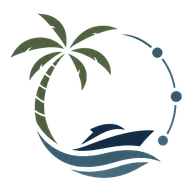
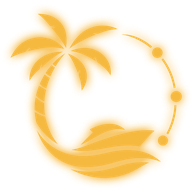
Add files via upload

diff --git a/index.html b/index.html
@@ -1023,7 +1023,7 @@ window.xuatCloseTab=xuatCloseTab;
 
 // ── App Update Checker: so sánh APP_BUILD nhúng trong file, tránh dùng etag/last-modified
 // (etag/last-modified dao động giữa các edge node CDN → báo cập nhật nhầm dù file không đổi)
-window.APP_BUILD='v3.04';
+window.APP_BUILD='v3.06';
 (function(){
   var _remoteBuild=null;
   function _parseBuild(txt){
@@ -4191,7 +4191,15 @@ function doAddSvcByKey(key){
     if(existingKeys.indexOf(key)>=0){
       let i=2; let addKey=key+'_'+i;
       while(existingKeys.indexOf(addKey)>=0){i++;addKey=key+'_'+i;}
-      s=Object.assign({},base,{key:addKey,custom:true});
+      // QUAN TRỌNG: gán CODE RIÊNG cho bản sao (thêm số thứ tự vào code gốc, VD "CNN"->"CNN2"),
+      // KHÔNG copy y hệt code của dịch vụ gốc. Nếu để trùng code, chỉ cần người dùng chạm/gõ lại vào
+      // ô Code của dòng này (dù không đổi giá trị) là switchSvcCodeByCode() sẽ tìm thấy dịch vụ GỐC
+      // có cùng code và HOÁN ĐỔI (switchSvcCode) — khiến 2 dòng bị lẫn/đổi dữ liệu cho nhau. Đặt code
+      // riêng biệt ngay từ đầu loại bỏ hoàn toàn khả năng trùng khớp gây hoán đổi nhầm.
+      const baseCode=(base.code||base.key||'').toUpperCase();
+      let newCode=(baseCode+i).slice(0,10);
+      while(SVCS.some(function(x){return (x.code||x.key||'').toUpperCase()===newCode;})){i++;newCode=(baseCode+i).slice(0,10);}
+      s=Object.assign({},base,{key:addKey,code:newCode,custom:true});
       SVCS.push(s);
     } else {
       s=base;
@@ -5001,14 +5009,14 @@ async function saveDetailSvc(){
   // FIX: các dịch vụ ĐÃ XÓA (có trong dữ liệu cũ nhưng không còn trong grid) phải bị xóa hẳn,
   // không để merge:true của Firestore tự khôi phục. Dùng FieldValue.delete() cho từng key đã bỏ.
   const removedKeys=Object.keys(existing).filter(function(k){return !(k in svcs);});
-  // Guard lớp 2: nếu Fill giá đang khóa, chặn lưu khi tập hợp dịch vụ "on" bị thay đổi (bật/tắt/
-  // thêm/xóa) — dù các nút bấm riêng lẻ (toggleSvc/removeSvc/addCustomSvcDetail) đã chặn từ trước,
-  // guard này đảm bảo an toàn tuyệt đối kể cả khi saveDetailSvc được gọi bằng cách khác.
+  // Guard lớp 2: nếu Fill giá đang khóa, CHỈ chặn khi có KEY MỚI HOÀN TOÀN xuất hiện (dịch vụ chưa
+  // từng tồn tại trong lô này trước đó) — vì đây là thao tác DUY NHẤT sinh ra dòng mới chưa có giá ở
+  // Fill giá. Bật/tắt/sửa/xóa các dịch vụ ĐÃ CÓ SẴN (dù đang on hay off từ trước) vẫn hoạt động bình
+  // thường — không bị chặn — đúng theo yêu cầu "tab Service vẫn hoạt động bình thường khi Fill giá khóa".
   if(r.priceLocked){
-    const onKeysBefore=Object.keys(existing).filter(function(k){return existing[k]&&existing[k].on;}).sort().join(',');
-    const onKeysAfter=Object.keys(svcs).filter(function(k){return svcs[k]&&svcs[k].on;}).sort().join(',');
-    if(onKeysBefore!==onKeysAfter||removedKeys.length){
-      toast('Fill giá đang khóa — không thể bật/tắt/thêm/xóa dịch vụ. Unlock ở tab Fill giá trước.','error');
+    const newKeys=Object.keys(svcs).filter(function(k){return !(k in existing);});
+    if(newKeys.length){
+      toast('Fill giá đang khóa — không thể tạo thêm dịch vụ mới. Unlock ở tab Fill giá trước.','error');
       return;
     }
   }
@@ -6767,15 +6775,14 @@ function svcRowHTML(s, sv){
   const svcStatus=sv.svcStatus||'';
   const cost=sv.cost||'';
   const r0=cache[detailTt]&&cache[detailTt].find(x=>x._id===detailId)||{};
-  // Khóa dòng dịch vụ khi 1 trong 2 điều kiện đúng:
-  // 1) Đã thanh toán NCC (apPaidStatus='paid') VÀ đang tick Finish — bỏ tick Finish để mở khóa lại.
-  // 2) Fill giá đang khóa TOÀN LÔ (r0.priceLocked=true) — lúc này MỌI dòng dịch vụ đều khóa cứng
-  //    (kể cả bật/tắt/thêm/xóa), vì thay đổi này sẽ ảnh hưởng tới tập hợp dòng hiển thị ở tab Fill
-  //    giá dù tab đó đang khóa. Mở khóa ở TAB FILL GIÁ (không phải Finish) để sửa lại được.
+  // Khóa dòng dịch vụ khi: đã thanh toán NCC (apPaidStatus='paid') VÀ đang tick Finish — bỏ tick
+  // Finish để mở khóa lại. Fill giá khóa (r0.priceLocked) KHÔNG còn khóa việc sửa cost/toggle/xóa ở
+  // đây nữa — tab Service vẫn hoạt động bình thường khi Fill giá khóa, CHỈ chặn riêng việc TẠO MỚI
+  // dịch vụ (xem addCustomSvcDetail/doAddSvcByKey) để không phát sinh dòng mới, chưa có giá ở Fill giá.
   const paidLocked=sv.apPaidStatus==='paid'&&!!sv.finish;
-  const priceLockedFlag=!!r0.priceLocked;
-  const locked=paidLocked||priceLockedFlag;
-  const lockTip=priceLockedFlag?'Fill giá đang khóa — Unlock ở tab Fill giá để chỉnh sửa':'Đã thanh toán — bỏ tick Finish để chỉnh sửa';
+  const priceLockedFlag=false; // giữ biến để không phải sửa lại các chỗ dùng lockTip bên dưới
+  const locked=paidLocked;
+  const lockTip='Đã thanh toán — bỏ tick Finish để chỉnh sửa';
   const lockedDis=locked?'disabled':'';
   const defaultVol=parseInt(r0.vol)||1;
   const qty=sv.svcQty||defaultVol;
@@ -8094,14 +8101,13 @@ function addCustomSvc(){
   const tg=g('tg_'+key);if(tg){tg.classList.add('on');tg.classList.remove('off');}
 }
 
-// Kiểm tra dịch vụ có đang bị khóa không — gồm 2 loại độc lập:
-// 1) Khóa TỪNG DÒNG: đã thanh toán NCC (apPaidStatus='paid') + đang tick Finish
-// 2) Khóa TOÀN LÔ: Fill giá đang khóa (r.priceLocked=true) — khi đó KHÔNG được bật/tắt/thêm/xóa
-//    BẤT KỲ dịch vụ nào, vì việc này sẽ làm thay đổi tập hợp dòng hiển thị ở tab Fill giá dù đang khóa.
-// Trả về: null (không khóa) hoặc {reason:'row'|'price', msg:'...'} để nơi gọi hiện đúng thông báo.
+// Kiểm tra dịch vụ có đang bị khóa TỪNG DÒNG không: đã thanh toán NCC (apPaidStatus='paid') VÀ
+// đang tick Finish. Fill giá khóa (r.priceLocked) KHÔNG khóa bật/tắt/xóa ở đây nữa — tab Service vẫn
+// hoạt động bình thường; chỉ riêng việc TẠO MỚI dịch vụ mới bị chặn khi Fill giá khóa (xem
+// addCustomSvcDetail/doAddSvcByKey), vì đó là thao tác duy nhất sinh ra dòng MỚI chưa có giá ở Fill giá.
+// Trả về: null (không khóa) hoặc {reason:'row', msg:'...'} để nơi gọi hiện đúng thông báo.
 function _svcRowLocked(key){
   const r=cache[detailTt]&&cache[detailTt].find(function(x){return x._id===detailId;});
-  if(r&&r.priceLocked)return {reason:'price',msg:'Fill giá đang khóa — Unlock ở tab Fill giá trước khi bật/tắt/xóa dịch vụ'};
   const sv=r&&r.svcs&&r.svcs[key];
   if(sv&&sv.apPaidStatus==='paid'&&sv.finish)return {reason:'row',msg:'Dịch vụ đã thanh toán — bỏ tick Finish trước khi chỉnh sửa'};
   return null;
@@ -13172,7 +13178,8 @@ body{font-family:'Inter',-apple-system,sans-serif;font-size:13px;color:var(--tex
 .hex-center-ring.r2{width:160%;height:160%;transform:translate(-50%,-50%);border-color:rgba(63,167,163,.24)}
 /* Khối trung tâm: KHÔNG nền, KHÔNG khung lục giác — chỉ mỗi logo cây dừa */
 .hex-center-inner{position:absolute;inset:0;display:flex;align-items:center;justify-content:center}
-.hex-center-inner img{width:56%;height:56%;object-fit:contain;filter:drop-shadow(0 0 14px rgba(63,167,163,.85))}
+.hex-center-inner img{width:56%;height:56%;object-fit:contain;filter:drop-shadow(0 0 10px rgba(246,185,64,.9)) drop-shadow(0 0 26px rgba(246,185,64,.55));animation:hexCenterGlowPulse 3.2s ease-in-out infinite}
+@keyframes hexCenterGlowPulse{0%,100%{filter:drop-shadow(0 0 10px rgba(246,185,64,.9)) drop-shadow(0 0 26px rgba(246,185,64,.55))}50%{filter:drop-shadow(0 0 16px rgba(246,185,64,1)) drop-shadow(0 0 38px rgba(246,185,64,.75))}}
 
 .dbtn{border:1px solid rgba(255,255,255,.18);background:rgba(255,255,255,.08);color:#fff;padding:5px 12px;border-radius:8px;font-size:10px;font-weight:700;cursor:pointer;display:inline-flex;align-items:center;gap:5px;position:relative;z-index:2}
 .dbtn:hover{background:rgba(255,255,255,.16)}
